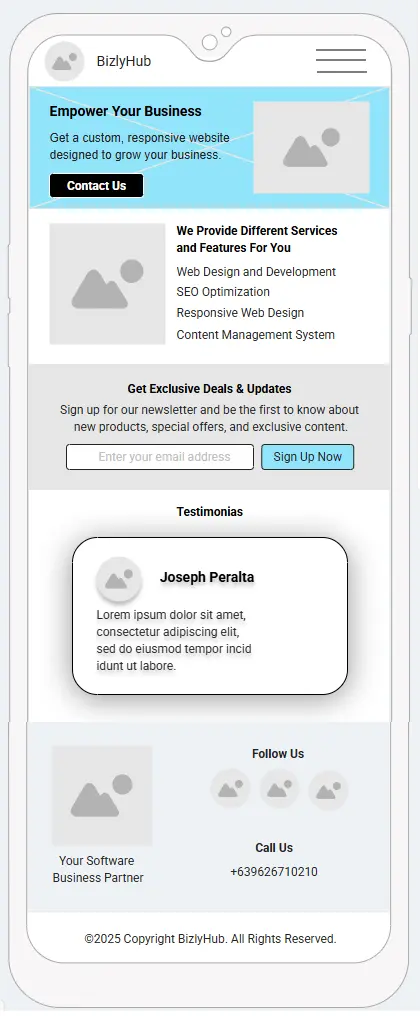
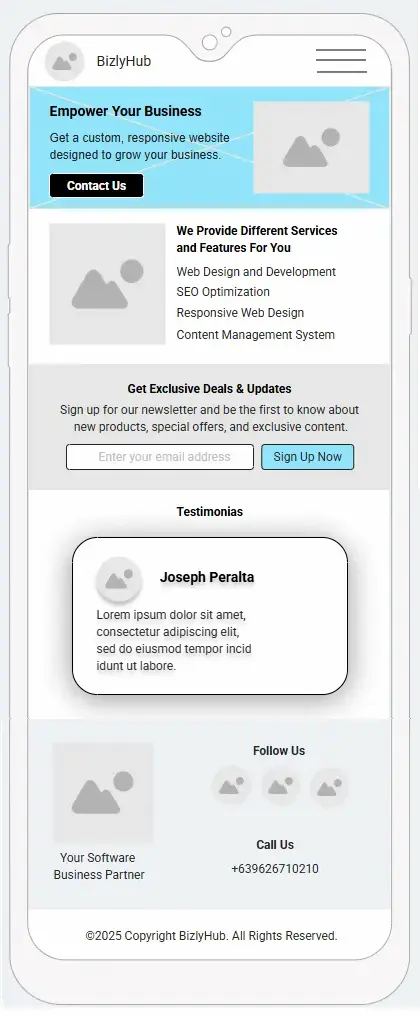
update img layout and size

diff --git a/mysite/index.html b/mysite/index.html
@@ -113,12 +113,18 @@
             </li>
             <li>
                 <h2>Wireframe</h2>
-                <div id="wireframe-images">
-                    <img src="images/wireframe-desktop.webp" alt="Wireframe for BizlyHub Website Desktop View" width="100" height="100">
-                    <img src="images/wireframe-mobile.webp" alt="Wireframe for BizlyHub Website Desktop View" width="100" height="100">
-                </div>
             </li>
         </ol>
+        <div id="wireframe-images">
+            <div>
+                <h3>Desktop</h3>
+                <img src="images/wireframe-desktop.webp" alt="Wireframe for BizlyHub Website Desktop View" width="481" height="904">
+            </div>
+            <div>
+                <h3>Mobile</h3>
+                <img src="images/wireframe-mobile.webp" alt="Wireframe for BizlyHub Website Desktop View" width="420" height="1016">
+            </div>
+        </div>
     </main>
     <footer>
         <div></div>

diff --git a/mysite/styles/mobile.css b/mysite/styles/mobile.css
@@ -25,8 +25,3 @@ body {
     gap: 1rem;
     padding: 1rem;
 }
-
-#wireframe-images img {
-    width: 100%;
-    height: auto;
-}
